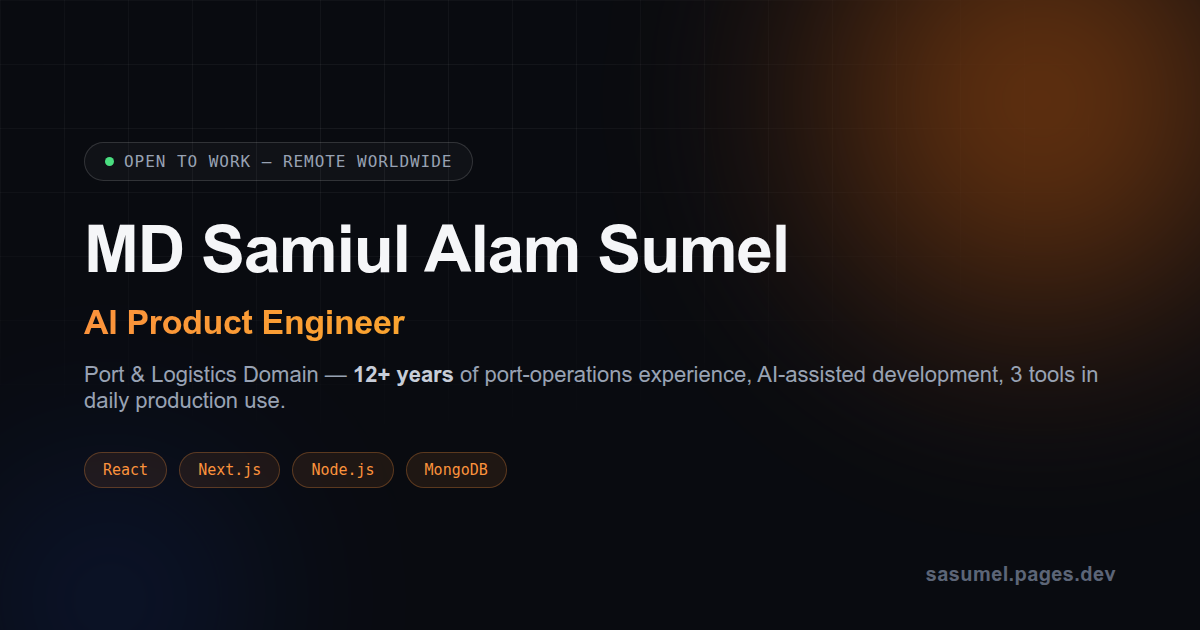
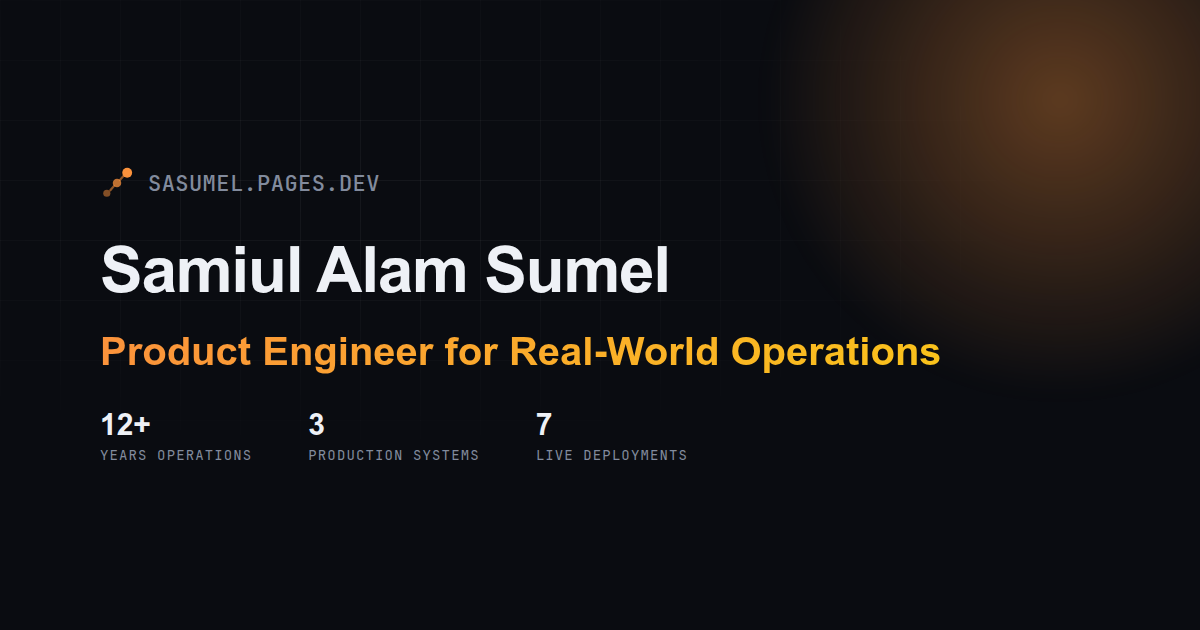
feat(site): design-system cleanup, status badges, brand mark, new OG image
Phase 5 of the redesign brief:

- Removed genuinely dead CSS: an entire unused earlier roadmap-phase
  component (.rm-phases/.rm-phase/.rm-ph-*/.rm-st, ~15 rules, superseded
  by the current .rm-journey/.rm-log design), .bento-tile, .fw-card,
  .diamond-ul, .mtd-ul, .sk-full, .sk-note, .connect-b, .co, and two
  unused @keyframes (scanline, orb-drift) -- confirmed dead via an
  automated cross-check of every CSS class against every HTML file
  before removing anything. Cleaned the same dead classes out of the
  shared card hover/spotlight selector list.
- Removed the one animation that was purely decorative and didn't
  communicate state/relationship/hierarchy/feedback (a scanline sweep on
  the collapsed roadmap log) -- everything else already ties to a real
  status or transition, and the sitewide reduced-motion rule already
  covers every remaining animation.
- Standardized status badges: Outreach Copilot and JARVIS (previously
  inconsistent -- one had no badge, one had an inline text note) now use
  the same badge component as every other project card ("LIVE" / "PUBLIC
  SOURCE -- NO DEMO").
- Added a small recurring brand mark (three connected nodes, echoing the
  Operations -> Systems -> Software motif) to the nav logo on all 11
  pages, next to the existing "SAS" wordmark.
- Generated a new OG image (1200x630, matches the live dark theme, brand
  mark, name, positioning, and three proof stats) via headless Chrome
[…]

diff --git a/css/style.css b/css/style.css
@@ -133,7 +133,7 @@ body{font-family:var(--font-body);background:var(--bg);color:var(--tx);overflow-
 
 ::selection{background:var(--accent);color:#fff}
 
-.h-desc,.ab-text p,.svc-intro,.svc-desc,.pc-pb,.pc-ds,.dc-note,.ct-text p,.mtd-p,.mtd-intro,.cs-desc,.vf-note,
+.ab-text p,.svc-intro,.svc-desc,.pc-ds,.dc-note,.ct-text p,.mtd-p,.mtd-intro,.vf-note,
 .cs-block-p,.cs-sent,.work-intro,.story-intro,.rm-intro,.dm-intro,.ai-eng-p{
   text-align:justify;text-align-last:left;hyphens:auto;-webkit-hyphens:auto;-ms-hyphens:auto;
 }
@@ -245,10 +245,6 @@ body{font-family:var(--font-body);background:var(--bg);color:var(--tx);overflow-
 .tag.bl{background:var(--bl-bg);color:var(--bl);border-color:rgba(29,78,216,.22)}
 .tag.gr{background:var(--gr-bg);color:var(--gr);border-color:rgba(21,128,61,.22)}
 
-.diamond-ul{list-style:none;display:flex;flex-direction:column;gap:10px}
-.diamond-ul li{display:flex;align-items:center;gap:12px;font-size:.88rem;color:var(--tx2);font-weight:500}
-.diamond-ul li::before{content:'';width:7px;height:7px;flex-shrink:0;background:var(--accent);transform:rotate(45deg);border-radius:2px}
-
 /* ─── BUTTONS ──────────────────────────────────────────────── */
 .btn{
   display:inline-flex;align-items:center;gap:9px;
@@ -287,8 +283,6 @@ body{font-family:var(--font-body);background:var(--bg);color:var(--tx);overflow-
 @keyframes pulse-ring{0%{transform:scale(1);opacity:.7}100%{transform:scale(2.2);opacity:0}}
 @keyframes float-y{0%,100%{transform:translateY(0)}50%{transform:translateY(-8px)}}
 @keyframes grad-pan{0%{background-position:0% 50%}50%{background-position:100% 50%}100%{background-position:0% 50%}}
-@keyframes scanline{0%{transform:translateY(-100%)}100%{transform:translateY(220%)}}
-@keyframes orb-drift{0%,100%{transform:translate(0,0)}50%{transform:translate(-3%,4%)}}
 @keyframes connector-flow{0%,100%{opacity:.35;transform:translateY(0)}50%{opacity:1;transform:translateY(3px)}}
 @keyframes connector-flow-h{0%,100%{opacity:.35;transform:translateX(0)}50%{opacity:1;transform:translateX(3px)}}
 @keyframes now-glow{0%,100%{box-shadow:var(--glow)}50%{box-shadow:0 0 0 1px var(--accent-25),0 0 20px 2px var(--accent-25)}}
@@ -335,26 +329,26 @@ body{font-family:var(--font-body);background:var(--bg);color:var(--tx);overflow-
 @media(prefers-reduced-motion:reduce){.flow-mini-node.now{animation:none}}
 
 /* Spotlight + lift interaction, shared across every card family */
-.sk-card,.pc,.dc,.ec,.tl-card,.rm-phase,.mtd-card,.bento-tile,.fw-card,.vf-card,.flow-node,.case-study,
-.mat-card,.connect-card,.ai-eng-item,.co,.trust-cell{
+.sk-card,.pc,.dc,.ec,.tl-card,.mtd-card,.vf-card,.flow-node,.case-study,
+.mat-card,.connect-card,.ai-eng-item,.trust-cell{
   position:relative;isolation:isolate;
   transition:border-color var(--ease),box-shadow var(--ease-spring),transform var(--ease-spring),background var(--ease);
 }
-.sk-card::before,.pc::before,.dc::before,.ec::before,.tl-card::before,.rm-phase::before,.mtd-card::before,
-.bento-tile::before,.fw-card::before,.vf-card::before,.case-study::before,.mat-card::before,.connect-card::before{
+.sk-card::before,.pc::before,.dc::before,.ec::before,.tl-card::before,.mtd-card::before,
+.vf-card::before,.case-study::before,.mat-card::before,.connect-card::before{
   content:'';position:absolute;inset:0;border-radius:inherit;z-index:-1;
   background:radial-gradient(420px circle at var(--mx,50%) var(--my,50%),var(--accent-10),transparent 70%);
   opacity:0;transition:opacity .35s ease;pointer-events:none;
 }
 .sk-card:hover::before,.pc:hover::before,.dc:hover::before,.ec:hover::before,.tl-card:hover::before,
-.rm-phase:hover::before,.mtd-card:hover::before,.bento-tile:hover::before,.fw-card:hover::before,
+.mtd-card:hover::before,
 .vf-card:hover::before,.case-study:hover::before,.mat-card:hover::before,.connect-card:hover::before{opacity:1}
-.sk-card:hover,.pc:hover,.dc:hover,.ec:hover,.tl-card:hover,.rm-phase:hover,.mtd-card:hover,.bento-tile:hover,
-.fw-card:hover,.vf-card:hover,.mat-card:hover,.connect-card:hover{transform:translateY(-4px);border-color:var(--bdr-h);box-shadow:var(--glow-lg)}
+.sk-card:hover,.pc:hover,.dc:hover,.ec:hover,.tl-card:hover,.mtd-card:hover,
+.vf-card:hover,.mat-card:hover,.connect-card:hover{transform:translateY(-4px);border-color:var(--bdr-h);box-shadow:var(--glow-lg)}
 
 @media(hover:none){
-  .sk-card::before,.pc::before,.dc::before,.ec::before,.tl-card::before,.rm-phase::before,.mtd-card::before,
-  .bento-tile::before,.fw-card::before,.vf-card::before,.case-study::before,.mat-card::before,.connect-card::before{display:none}
+  .sk-card::before,.pc::before,.dc::before,.ec::before,.tl-card::before,.mtd-card::before,
+  .vf-card::before,.case-study::before,.mat-card::before,.connect-card::before{display:none}
 }
 
 /* ═══════════════════════════════════════════════════════════════
@@ -367,7 +361,8 @@ body{font-family:var(--font-body);background:var(--bg);color:var(--tx);overflow-
 }
 #nb.sc{padding:12px 0;background:color-mix(in srgb,var(--bg) 92%,transparent);border-bottom-color:var(--bdr-s);box-shadow:0 10px 30px rgba(0,0,0,.08)}
 .nav-in{display:flex;align-items:center;justify-content:space-between;gap:16px}
-.logo{font-family:var(--font-display);font-weight:700;font-size:1.22rem;letter-spacing:-.03em;text-decoration:none;display:flex;align-items:center;gap:12px;color:var(--tx)}
+.logo{font-family:var(--font-display);font-weight:700;font-size:1.22rem;letter-spacing:-.03em;text-decoration:none;display:flex;align-items:center;gap:9px;color:var(--tx)}
+.brand-mark{width:19px;height:19px;flex-shrink:0;color:var(--accent)}
 .logo-badge{font-family:var(--font-mono);font-size:.6rem;color:var(--tx2);padding:3px 10px;border:1px solid var(--bdr-s2);border-radius:20px;font-weight:400;letter-spacing:.06em;background:var(--card)}
 .nav-links{display:flex;align-items:center;gap:2px;list-style:none}
 .nav-links a{font-size:.82rem;font-weight:500;color:var(--tx2);text-decoration:none;padding:7px 12px;border-radius:var(--r-xs);transition:all var(--ease);position:relative}
@@ -625,9 +620,6 @@ body{font-family:var(--font-body);background:var(--bg);color:var(--tx);overflow-
 .mtd-standard-card{display:flex;flex-direction:column;gap:12px}
 .mtd-standard-card .mtd-card-t{margin-bottom:0}
 .mtd-standard-card .mtd-p{margin:0}
-.mtd-ul{list-style:none;display:grid;grid-template-columns:repeat(auto-fit,minmax(240px,1fr));gap:12px 28px}
-.mtd-ul li{display:flex;gap:10px;font-size:.85rem;color:var(--tx2);line-height:1.6}
-.mtd-ul li::before{content:'▸';color:var(--accent-tx);flex-shrink:0;margin-top:2px;font-size:.75rem}
 
 /* ═══════════════════════════════════════════════════════════════
    SELECTED ENGINEERING WORK
@@ -655,7 +647,9 @@ body{font-family:var(--font-body);background:var(--bg);color:var(--tx);overflow-
 .cs-summary-body{flex:1;min-width:0}
 .cs-summary-hd{display:flex;align-items:center;gap:10px;flex-wrap:wrap;margin-bottom:6px}
 .cs-nm{font-family:var(--font-display);font-size:1.02rem;font-weight:700;color:var(--tx)}
-.cs-status{font-family:var(--font-mono);font-size:.62rem;letter-spacing:.08em;padding:3px 10px;border-radius:20px;background:var(--gr-bg);color:var(--gr);border:1px solid rgba(21,128,61,.25)}
+.cs-status{font-family:var(--font-mono);font-size:.62rem;letter-spacing:.08em;padding:3px 10px;border-radius:20px;background:var(--gr-bg);color:var(--gr);border:1px solid rgba(21,128,61,.25);display:inline-block}
+.pc .cs-status{margin:8px 0 12px}
+.cs-status-alt{background:var(--card2);color:var(--tx3);border-color:var(--bdr-s2)}
 .cs-sent{font-size:.82rem;color:var(--tx2);line-height:1.5}
 .cs-chevron{flex-shrink:0;width:32px;height:32px;border-radius:50%;border:1px solid var(--bdr-s2);display:flex;align-items:center;justify-content:center;color:var(--tx2);transition:transform var(--ease),background var(--ease)}
 .case-study[open] .cs-chevron{transform:rotate(180deg);background:var(--accent-10);color:var(--accent-tx)}
@@ -719,7 +713,6 @@ body{font-family:var(--font-body);background:var(--bg);color:var(--tx);overflow-
 #skills{background:var(--bg)}
 .sk-grid{display:grid;grid-template-columns:repeat(auto-fit,minmax(280px,1fr));gap:20px}
 .sk-grid .sk-card:first-child{grid-column:1/-1}
-.sk-full{grid-column:1/-1}
 .sk-card{padding:28px;border-radius:var(--r-lg);background:var(--bg2);border:1px solid var(--bdr-s);box-shadow:var(--shd)}
 .sk-hd{display:flex;align-items:center;gap:14px;margin-bottom:20px}
 .sk-ic{width:44px;height:44px;border-radius:12px;flex-shrink:0;background:var(--accent-10);border:1px solid var(--bdr);display:flex;align-items:center;justify-content:center;font-size:1.2rem}
@@ -739,7 +732,6 @@ a.sp{text-decoration:none}
 .sk-group:last-child{margin-bottom:0}
 .sk-tier{font-family:var(--font-mono);font-size:.63rem;color:var(--accent-tx);letter-spacing:.12em;text-transform:uppercase;font-weight:600;margin-bottom:9px}
 .sk-tier-ai{color:var(--tx3)}
-.sk-note{color:var(--tx3);font-size:.76rem;font-style:italic;margin:-12px 0 18px}
 .sk-card-ev{font-size:.76rem;color:var(--tx3);margin-top:16px;line-height:1.6}
 .sk-card-ev strong{color:var(--tx2);font-weight:600}
 .sk-card-ev a{color:var(--accent-tx)}
@@ -800,11 +792,6 @@ a.sp{text-decoration:none}
   content:'● ● ●';position:absolute;top:14px;left:20px;letter-spacing:6px;font-size:.6rem;
   color:color-mix(in srgb,var(--bg2) 30%,transparent);
 }
-.rm-status::after{
-  content:'';position:absolute;left:0;right:0;top:0;height:60%;
-  background:linear-gradient(180deg,var(--accent-15),transparent);
-  opacity:.5;animation:scanline 5s linear infinite;pointer-events:none;
-}
 .rm-status-row{display:flex;gap:18px;white-space:nowrap;position:relative;z-index:1}
 .rm-status-k{color:var(--accent);min-width:120px;flex-shrink:0}
 .rm-status-v{color:var(--bg2)}
@@ -813,21 +800,6 @@ a.sp{text-decoration:none}
 
 .rm-journey{margin-bottom:var(--sp-7)}
 .rm-journey-t{font-family:var(--font-mono);font-size:.66rem;letter-spacing:.14em;text-transform:uppercase;color:var(--tx3);margin-bottom:12px}
-
-.rm-phases{display:flex;flex-direction:column;gap:14px}
-.rm-phase{border:1px solid var(--bdr-s);border-radius:var(--r-lg);background:var(--bg);padding:24px 28px;display:grid;grid-template-columns:64px 1fr;gap:20px;align-items:start;overflow:hidden}
-.rm-phase::after{content:'';position:absolute;left:0;top:0;bottom:0;width:3px;background:var(--bdr-s2)}
-.rm-phase:has(.rm-st.now)::after{background:var(--grad-accent)}
-.rm-ph-num{font-family:var(--font-mono);font-size:.85rem;color:var(--accent-tx);font-weight:700;padding-top:2px}
-.rm-ph-hd{display:flex;flex-wrap:wrap;align-items:center;gap:12px;margin-bottom:10px}
-.rm-ph-t{font-family:var(--font-display);font-size:1rem;font-weight:700;color:var(--tx)}
-.rm-st{font-family:var(--font-mono);font-size:.63rem;padding:3px 11px;border-radius:20px;letter-spacing:.06em;text-transform:uppercase}
-.rm-st.now{background:var(--gr-bg);color:var(--gr);border:1px solid rgba(21,128,61,.25);display:inline-flex;align-items:center;gap:6px}
-.rm-st.now::before{content:'';width:6px;height:6px;border-radius:50%;background:var(--gr);animation:blink 1.9s infinite;flex-shrink:0}
-.rm-st.next{background:var(--card2);color:var(--tx2);border:1px solid var(--bdr-s2)}
-.rm-ph-list{list-style:none;display:flex;flex-wrap:wrap;gap:8px;margin-bottom:10px}
-.rm-ph-list li{font-size:.76rem;color:var(--tx2);background:var(--card2);border:1px solid var(--bdr-s);padding:3px 11px;border-radius:14px}
-.rm-ph-out{font-size:.78rem;color:var(--tx3);font-style:italic}
 
 /* ═══════════════════════════════════════════════════════════════
    DOMAIN — 12+ Years Inside Real Operations
@@ -856,7 +828,6 @@ a.sp{text-decoration:none}
 .connect-strip{margin-top:var(--sp-7);display:grid;grid-template-columns:repeat(3,1fr);gap:16px}
 .connect-card{padding:18px 20px;border-radius:var(--r-md);background:var(--card);border:1px solid var(--bdr-s);text-align:center}
 .connect-a,.connect-c{font-size:.78rem;color:var(--tx2)}
-.connect-b{font-size:.72rem;color:var(--tx3);margin:8px 0;font-style:italic}
 .connect-c{font-family:var(--font-display);font-weight:700;color:var(--accent-tx);font-size:.9rem;margin-top:6px}
 .connect-arrow{color:var(--tx3);font-family:var(--font-mono);font-size:.75rem;margin:2px 0}
 
@@ -959,7 +930,6 @@ a.sp{text-decoration:none}
 .tcos-row:last-child{border-bottom:none}
 .tcos-k{font-family:var(--font-mono);font-size:.66rem;letter-spacing:.12em;text-transform:uppercase;color:var(--accent-tx);font-weight:700;flex-shrink:0;width:78px}
 .tcos-v{font-size:.85rem;font-weight:600;color:var(--tx2)}
-.co::before{content:'▸';color:var(--accent-tx)}
 
 .cl{display:flex;flex-direction:column;gap:12px}
 .clk{display:flex;align-items:center;gap:18px;padding:18px 22px;border-radius:var(--r-md);background:var(--card);border:1px solid var(--bdr-s);text-decoration:none;color:var(--tx);transition:border-color var(--ease),background var(--ease),transform var(--ease),box-shadow var(--ease);position:relative;overflow:hidden}
@@ -1015,7 +985,6 @@ footer::before{content:'';position:absolute;top:-1px;left:50%;translate:-50% 0;w
   .tl-card{padding:22px 24px}
   .ab-tl{padding-left:22px}
   .ab-tl p::before{left:-27px}
-  .rm-phase{grid-template-columns:1fr;gap:8px}
   .cs-summary{flex-wrap:wrap}
   .cs-thumb{width:100%;height:140px}
   .resume-box{flex-direction:column;align-items:flex-start;text-align:left}

diff --git a/index.html b/index.html
@@ -276,7 +276,7 @@
     <nav id="nb" aria-label="Primary navigation">
       <div class="wrap nav-in">
         <a href="#hero" class="logo"
-          >SAS <span class="logo-badge">Product Engineer</span></a
+          ><svg class="brand-mark" viewBox="0 0 20 20" aria-hidden="true"><circle cx="4" cy="16" r="2.1" fill="currentColor" opacity=".5"/><circle cx="10" cy="10" r="2.5" fill="currentColor" opacity=".75"/><circle cx="16" cy="4" r="2.9" fill="currentColor"/><path d="M6.1 14.3 8.3 11.7M11.7 8.3 13.9 5.7" stroke="currentColor" stroke-width="1.3" stroke-linecap="round" opacity=".55"/></svg>SAS <span class="logo-badge">Product Engineer</span></a
         >
         <ul class="nav-links" role="list">
           <li><a href="#work">Work</a></li>
@@ -1340,6 +1340,7 @@
                 </div>
               </div>
               <h3 class="pc-nm">Outreach Copilot</h3>
+              <span class="cs-status">● LIVE</span>
               <p class="pc-ds">AI-drafted cold outreach from a saved resume and a target company — email, LinkedIn, WhatsApp, or cover letter. Every send stays manual.</p>
               <div class="pc-tags"><span class="pt">TypeScript</span><span class="pt">Workers AI</span><span class="pt">D1</span></div>
             </div>
@@ -1350,7 +1351,8 @@
                   <a href="https://github.com/samiulAsumel/jarvis" target="_blank" rel="noopener noreferrer" class="pc-lk" aria-label="GitHub"><svg class="icon icon-brand"><use href="#i-github"/></svg></a>
                 </div>
               </div>
-              <h3 class="pc-nm">JARVIS <span style="font-size:.66rem;font-weight:400;color:var(--tx3)">— source available, no public demo</span></h3>
+              <h3 class="pc-nm">JARVIS</h3>
+              <span class="cs-status cs-status-alt">● PUBLIC SOURCE — NO DEMO</span>
               <p class="pc-ds">Self-hosted personal AI assistant with multi-model routing (Groq, OpenRouter, Claude, Gemini, local Ollama), voice I/O, and persistent memory.</p>
               <div class="pc-tags"><span class="pt">FastAPI</span><span class="pt">Multi-LLM Routing</span><span class="pt">NixOS</span></div>
             </div>

diff --git a/projects/carview.html b/projects/carview.html
@@ -81,7 +81,7 @@
     <nav id="nb" aria-label="Primary navigation">
       <div class="wrap nav-in">
         <a href="../index.html#hero" class="logo"
-          >SAS <span class="logo-badge">Product Engineer</span></a
+          ><svg class="brand-mark" viewBox="0 0 20 20" aria-hidden="true"><circle cx="4" cy="16" r="2.1" fill="currentColor" opacity=".5"/><circle cx="10" cy="10" r="2.5" fill="currentColor" opacity=".75"/><circle cx="16" cy="4" r="2.9" fill="currentColor"/><path d="M6.1 14.3 8.3 11.7M11.7 8.3 13.9 5.7" stroke="currentColor" stroke-width="1.3" stroke-linecap="round" opacity=".55"/></svg>SAS <span class="logo-badge">Product Engineer</span></a
         >
         <ul class="nav-links" role="list">
           <li><a href="../index.html#work">← All Projects</a></li>

diff --git a/projects/otbill.html b/projects/otbill.html
@@ -81,7 +81,7 @@
     <nav id="nb" aria-label="Primary navigation">
       <div class="wrap nav-in">
         <a href="../index.html#hero" class="logo"
-          >SAS <span class="logo-badge">Product Engineer</span></a
+          ><svg class="brand-mark" viewBox="0 0 20 20" aria-hidden="true"><circle cx="4" cy="16" r="2.1" fill="currentColor" opacity=".5"/><circle cx="10" cy="10" r="2.5" fill="currentColor" opacity=".75"/><circle cx="16" cy="4" r="2.9" fill="currentColor"/><path d="M6.1 14.3 8.3 11.7M11.7 8.3 13.9 5.7" stroke="currentColor" stroke-width="1.3" stroke-linecap="round" opacity=".55"/></svg>SAS <span class="logo-badge">Product Engineer</span></a
         >
         <ul class="nav-links" role="list">
           <li><a href="../index.html#work">← All Projects</a></li>

diff --git a/projects/portbill.html b/projects/portbill.html
@@ -81,7 +81,7 @@
     <nav id="nb" aria-label="Primary navigation">
       <div class="wrap nav-in">
         <a href="../index.html#hero" class="logo"
-          >SAS <span class="logo-badge">Product Engineer</span></a
+          ><svg class="brand-mark" viewBox="0 0 20 20" aria-hidden="true"><circle cx="4" cy="16" r="2.1" fill="currentColor" opacity=".5"/><circle cx="10" cy="10" r="2.5" fill="currentColor" opacity=".75"/><circle cx="16" cy="4" r="2.9" fill="currentColor"/><path d="M6.1 14.3 8.3 11.7M11.7 8.3 13.9 5.7" stroke="currentColor" stroke-width="1.3" stroke-linecap="round" opacity=".55"/></svg>SAS <span class="logo-badge">Product Engineer</span></a
         >
         <ul class="nav-links" role="list">
           <li><a href="../index.html#work">← All Projects</a></li>

diff --git a/about/index.html b/about/index.html
@@ -176,7 +176,7 @@
     <nav id="nb" aria-label="Primary navigation">
       <div class="wrap nav-in">
         <a href="/#hero" class="logo"
-          >SAS <span class="logo-badge">Product Engineer</span></a
+          ><svg class="brand-mark" viewBox="0 0 20 20" aria-hidden="true"><circle cx="4" cy="16" r="2.1" fill="currentColor" opacity=".5"/><circle cx="10" cy="10" r="2.5" fill="currentColor" opacity=".75"/><circle cx="16" cy="4" r="2.9" fill="currentColor"/><path d="M6.1 14.3 8.3 11.7M11.7 8.3 13.9 5.7" stroke="currentColor" stroke-width="1.3" stroke-linecap="round" opacity=".55"/></svg>SAS <span class="logo-badge">Product Engineer</span></a
         >
         <ul class="nav-links" role="list">
           <li><a href="/#work">Work</a></li>

diff --git a/engineering/ai-engineering/index.html b/engineering/ai-engineering/index.html
@@ -176,7 +176,7 @@
     <nav id="nb" aria-label="Primary navigation">
       <div class="wrap nav-in">
         <a href="/#hero" class="logo"
-          >SAS <span class="logo-badge">Product Engineer</span></a
+          ><svg class="brand-mark" viewBox="0 0 20 20" aria-hidden="true"><circle cx="4" cy="16" r="2.1" fill="currentColor" opacity=".5"/><circle cx="10" cy="10" r="2.5" fill="currentColor" opacity=".75"/><circle cx="16" cy="4" r="2.9" fill="currentColor"/><path d="M6.1 14.3 8.3 11.7M11.7 8.3 13.9 5.7" stroke="currentColor" stroke-width="1.3" stroke-linecap="round" opacity=".55"/></svg>SAS <span class="logo-badge">Product Engineer</span></a
         >
         <ul class="nav-links" role="list">
           <li><a href="/#work">Work</a></li>

diff --git a/engineering/how-i-build/index.html b/engineering/how-i-build/index.html
@@ -176,7 +176,7 @@
     <nav id="nb" aria-label="Primary navigation">
       <div class="wrap nav-in">
         <a href="/#hero" class="logo"
-          >SAS <span class="logo-badge">Product Engineer</span></a
+          ><svg class="brand-mark" viewBox="0 0 20 20" aria-hidden="true"><circle cx="4" cy="16" r="2.1" fill="currentColor" opacity=".5"/><circle cx="10" cy="10" r="2.5" fill="currentColor" opacity=".75"/><circle cx="16" cy="4" r="2.9" fill="currentColor"/><path d="M6.1 14.3 8.3 11.7M11.7 8.3 13.9 5.7" stroke="currentColor" stroke-width="1.3" stroke-linecap="round" opacity=".55"/></svg>SAS <span class="logo-badge">Product Engineer</span></a
         >
         <ul class="nav-links" role="list">
           <li><a href="/#work">Work</a></li>

diff --git a/engineering/index.html b/engineering/index.html
@@ -176,7 +176,7 @@
     <nav id="nb" aria-label="Primary navigation">
       <div class="wrap nav-in">
         <a href="/#hero" class="logo"
-          >SAS <span class="logo-badge">Product Engineer</span></a
+          ><svg class="brand-mark" viewBox="0 0 20 20" aria-hidden="true"><circle cx="4" cy="16" r="2.1" fill="currentColor" opacity=".5"/><circle cx="10" cy="10" r="2.5" fill="currentColor" opacity=".75"/><circle cx="16" cy="4" r="2.9" fill="currentColor"/><path d="M6.1 14.3 8.3 11.7M11.7 8.3 13.9 5.7" stroke="currentColor" stroke-width="1.3" stroke-linecap="round" opacity=".55"/></svg>SAS <span class="logo-badge">Product Engineer</span></a
         >
         <ul class="nav-links" role="list">
           <li><a href="/#work">Work</a></li>

diff --git a/engineering/roadmap/index.html b/engineering/roadmap/index.html
@@ -176,7 +176,7 @@
     <nav id="nb" aria-label="Primary navigation">
       <div class="wrap nav-in">
         <a href="/#hero" class="logo"
-          >SAS <span class="logo-badge">Product Engineer</span></a
+          ><svg class="brand-mark" viewBox="0 0 20 20" aria-hidden="true"><circle cx="4" cy="16" r="2.1" fill="currentColor" opacity=".5"/><circle cx="10" cy="10" r="2.5" fill="currentColor" opacity=".75"/><circle cx="16" cy="4" r="2.9" fill="currentColor"/><path d="M6.1 14.3 8.3 11.7M11.7 8.3 13.9 5.7" stroke="currentColor" stroke-width="1.3" stroke-linecap="round" opacity=".55"/></svg>SAS <span class="logo-badge">Product Engineer</span></a
         >
         <ul class="nav-links" role="list">
           <li><a href="/#work">Work</a></li>

diff --git a/experience/index.html b/experience/index.html
@@ -176,7 +176,7 @@
     <nav id="nb" aria-label="Primary navigation">
       <div class="wrap nav-in">
         <a href="/#hero" class="logo"
-          >SAS <span class="logo-badge">Product Engineer</span></a
+          ><svg class="brand-mark" viewBox="0 0 20 20" aria-hidden="true"><circle cx="4" cy="16" r="2.1" fill="currentColor" opacity=".5"/><circle cx="10" cy="10" r="2.5" fill="currentColor" opacity=".75"/><circle cx="16" cy="4" r="2.9" fill="currentColor"/><path d="M6.1 14.3 8.3 11.7M11.7 8.3 13.9 5.7" stroke="currentColor" stroke-width="1.3" stroke-linecap="round" opacity=".55"/></svg>SAS <span class="logo-badge">Product Engineer</span></a
         >
         <ul class="nav-links" role="list">
           <li><a href="/#work">Work</a></li>

diff --git a/resume/index.html b/resume/index.html
@@ -176,7 +176,7 @@
     <nav id="nb" aria-label="Primary navigation">
       <div class="wrap nav-in">
         <a href="/#hero" class="logo"
-          >SAS <span class="logo-badge">Product Engineer</span></a
+          ><svg class="brand-mark" viewBox="0 0 20 20" aria-hidden="true"><circle cx="4" cy="16" r="2.1" fill="currentColor" opacity=".5"/><circle cx="10" cy="10" r="2.5" fill="currentColor" opacity=".75"/><circle cx="16" cy="4" r="2.9" fill="currentColor"/><path d="M6.1 14.3 8.3 11.7M11.7 8.3 13.9 5.7" stroke="currentColor" stroke-width="1.3" stroke-linecap="round" opacity=".55"/></svg>SAS <span class="logo-badge">Product Engineer</span></a
         >
         <ul class="nav-links" role="list">
           <li><a href="/#work">Work</a></li>
